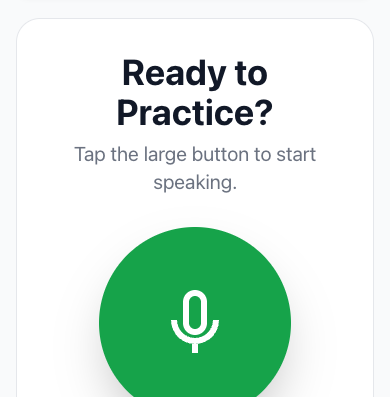
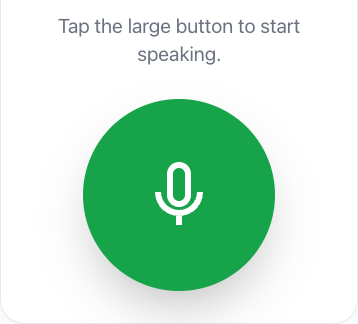
Retake screenshots as element-level captures — no clipping, no admin UI

Changed region(s): [[0.1536, 0.0617, 0.8603, 1.0], [0.7989, 0.9877, 0.9525, 1.0], [0.0615, 0.9877, 0.1844, 1.0]]

diff --git a/frontend/frontend-app/src/components/OnboardingModal.js b/frontend/frontend-app/src/components/OnboardingModal.js
@@ -103,10 +103,14 @@ function StepHowItWorks({ t }) {
 function StepMicTip({ t }) {
   return (
     <div className="flex flex-col items-center text-center gap-4">
-      <MicIcon />
       <h2 className="text-3xl font-bold text-gray-900 leading-tight">
         {t("onboarding.micTip.title")}
       </h2>
+      <AppScreenshot
+        src="/onboarding/talk-screen.png"
+        alt={t("onboarding.micTip.screenshotAlt")}
+        objectPosition="center 60%"
+      />
       <p className="text-xl text-gray-700 leading-relaxed max-w-sm">
         {t("onboarding.micTip.body")}
       </p>
@@ -137,7 +141,7 @@ function StepReady({ t }) {
       <AppScreenshot
         src="/onboarding/starters-screen.png"
         alt={t("onboarding.ready.screenshotAlt")}
-        objectPosition="center 50%"
+        objectPosition="center 30%"
       />
       <p className="text-xl text-gray-700 leading-relaxed max-w-sm">
         {t("onboarding.ready.body")}
